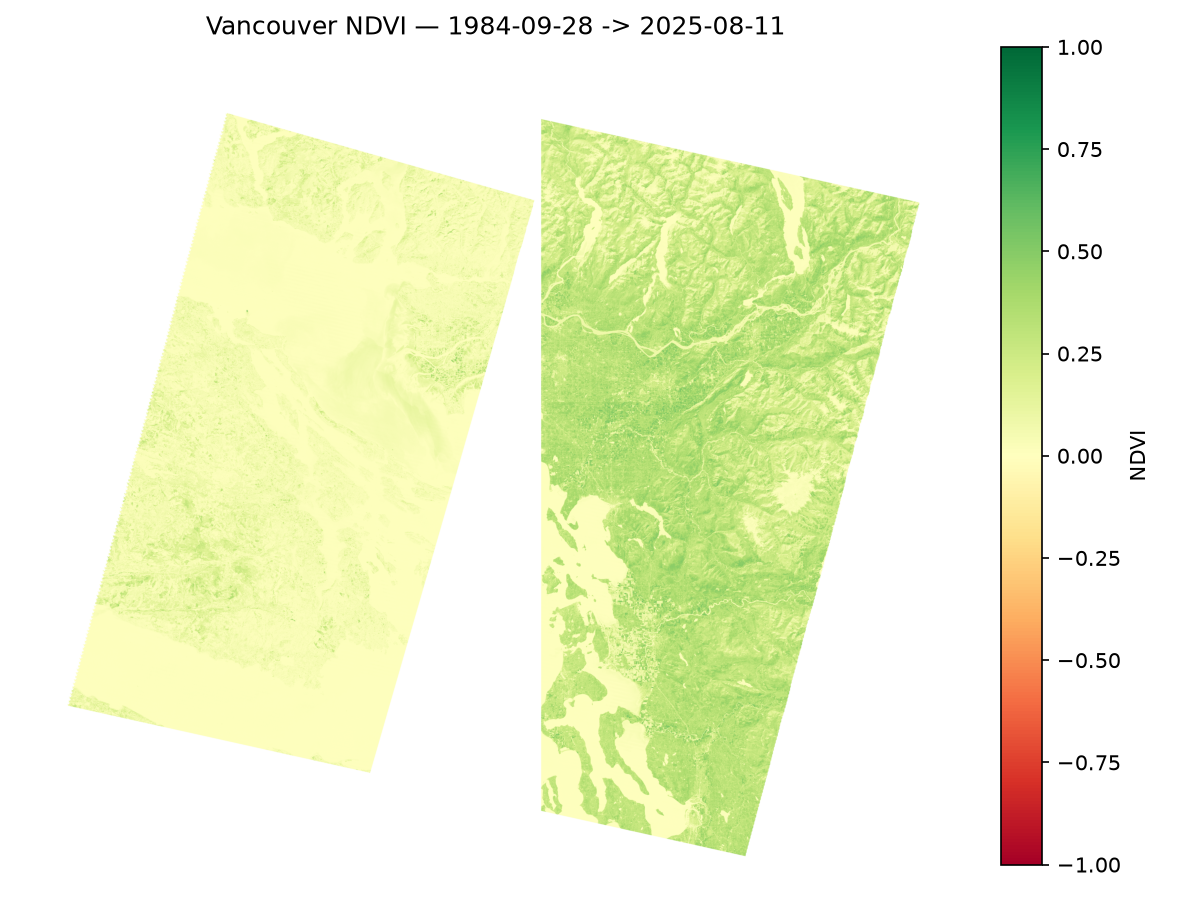
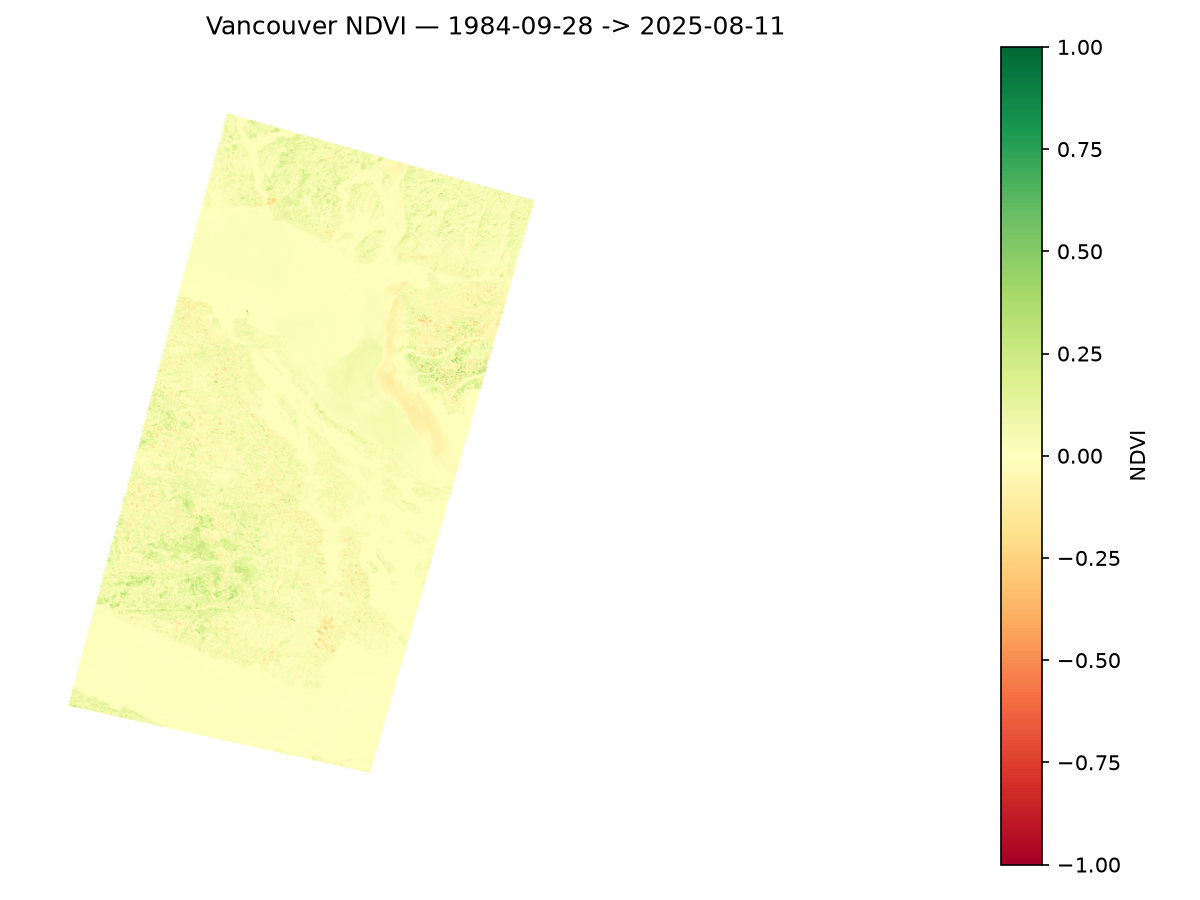
Fixed image overlap

Changed region(s): [[0.4317, 0.1244, 0.7708, 0.9644]]

diff --git a/src/Backend/Comparator.py b/src/Backend/Comparator.py
@@ -2,10 +2,13 @@ import numpy as np
 import rasterio
 from rasterio.warp import reproject, Resampling
 
+
+from rasterio.transform import array_bounds
+
 # creates an image of the specified place and compares the change in vegetation between these two images
 class Comparator:
-    img1 = None
-    img2 = None
+    img1 = None # older img
+    img2 = None # newer img
 
     def __init__(self, img1, img2):
         self.img1 = img1
@@ -21,7 +24,7 @@ class Comparator:
         src.close()
         return arr, profile
 
-    # EFFECTS: returns the change in 2d matrix of NDVI values for 2 given images
+    # EFFECTS: returns the change in 2d matrix of NDVI values between the old and new image
     def getNDVI(self):
         image1Red, profile1 = self.getBand(self.img1, "red")
         image1NIR, _ = self.getBand(self.img1, "nir08")
@@ -40,8 +43,10 @@ class Comparator:
         validVector2 = denominator2 != 0
         ndvi2[validVector2] = (image2NIR[validVector2] - image2Red[validVector2]) / denominator2[validVector2]
 
-        ndvi2Aligned = np.empty(ndvi1.shape, dtype=np.float32)
+        ndvi2Aligned = np.full(ndvi1.shape, np.nan, dtype=np.float32)
 
+
+        # reproject because dimension of images don't match
         reproject(
             source=ndvi2,
             destination=ndvi2Aligned,
@@ -49,7 +54,9 @@ class Comparator:
             src_crs=profile2["crs"],
             dst_transform=profile1["transform"],
             dst_crs=profile1["crs"],
+            src_nodata=np.nan,
+            dst_nodata=np.nan,
             resampling=Resampling.bilinear
         )
 
-        return np.abs(ndvi1 - ndvi2Aligned)
+        return ndvi2Aligned - ndvi1

diff --git a/src/Main.py b/src/Main.py
@@ -1,8 +1,6 @@
 import Backend.ImageGenerator as ImageGenerator
 import Backend.Comparator as Comparator
 
-import rasterio
-import numpy as np
 import matplotlib.pyplot as plt
 
 # get img
